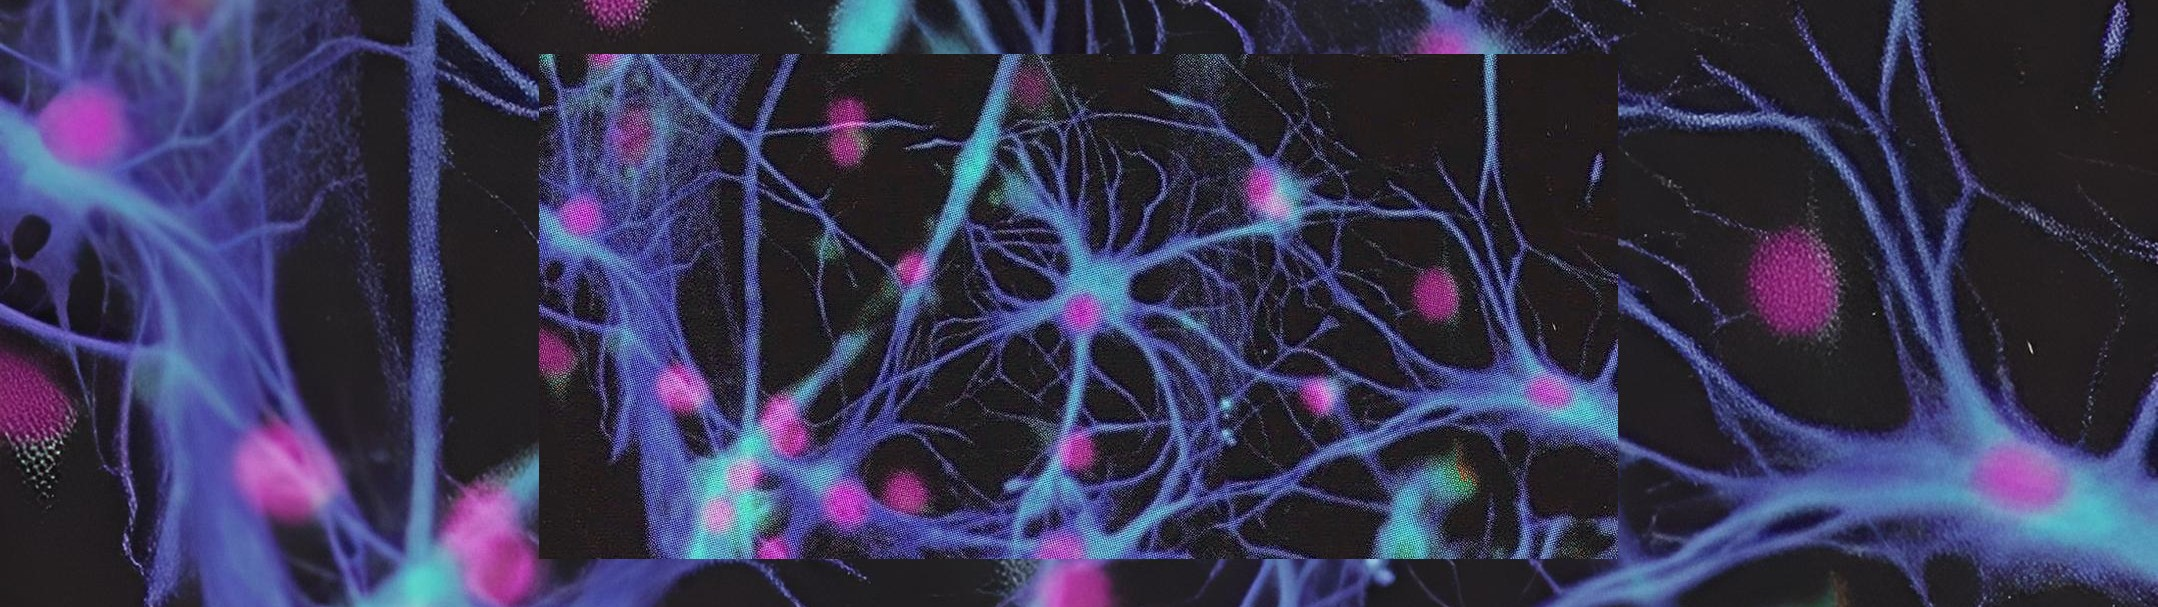
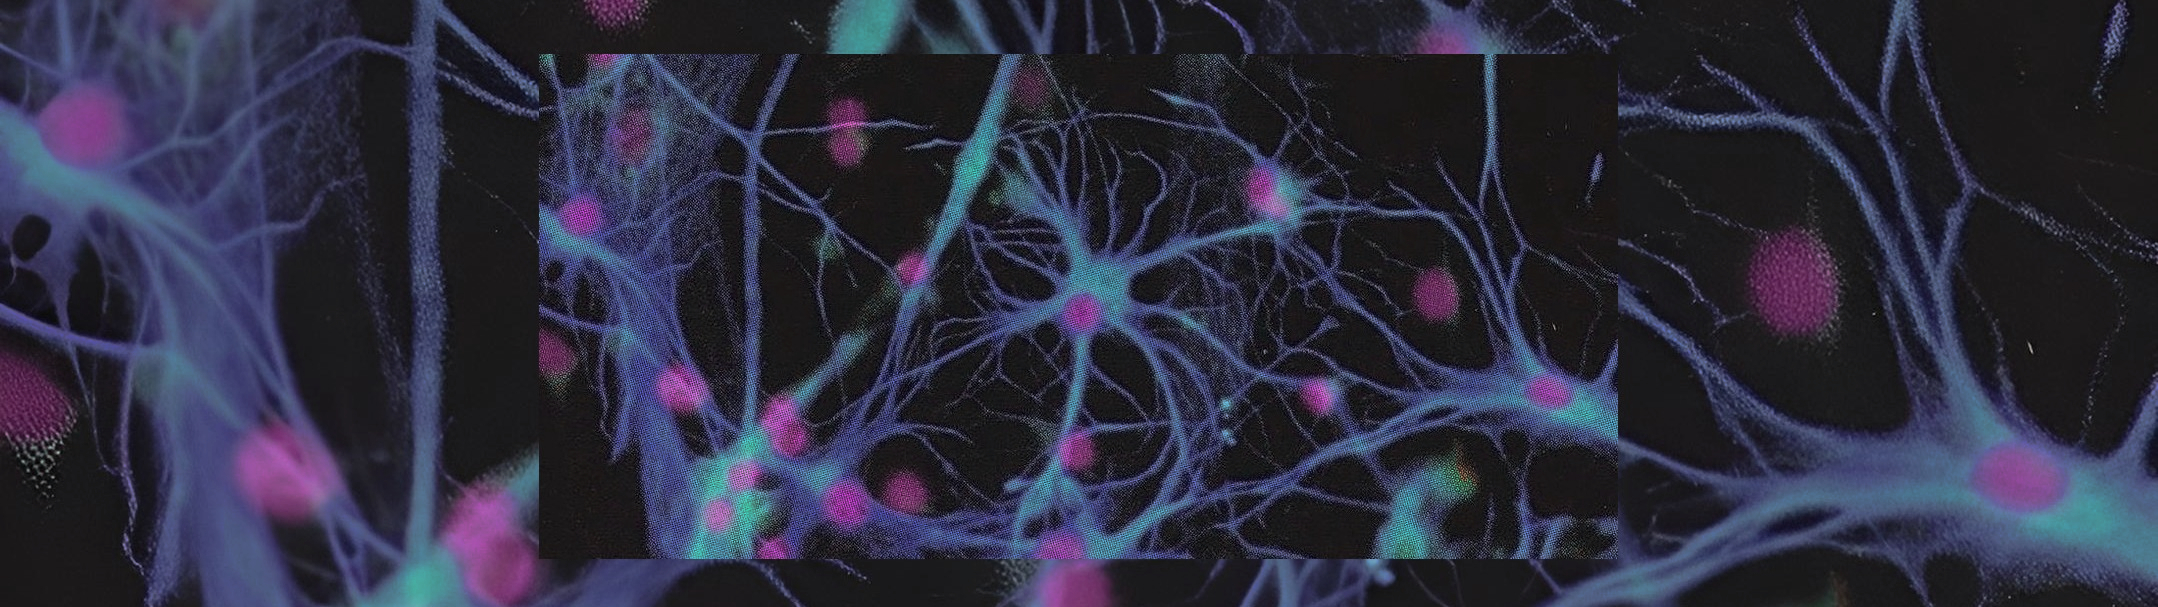
content and bg change

diff --git a/style.css b/style.css
@@ -396,7 +396,7 @@ p, h1, h2, h3, .content {
 .leftbg img {
   position: absolute; 
   bottom: 0;
-  left: 0;
+  left: 3px;
   width: 94.7%;
   object-fit: cover;
   mix-blend-mode: multiply;

diff --git a/content/visuals/darkroom/darkroom.md b/content/visuals/darkroom/darkroom.md
@@ -1,9 +1,24 @@
 wip: true
 banner: assets/edge.jpg
 
-This is meant to serve as a hub for my attempts at pursuing photography. Photography really does something unique for me. I place a lot of focus on the function of art as either asethetic and technical or purely for concept exploration, both of which are quite technical, grounded, and quantifiable. I don't enjoy the emotional aspect or the meaning aspect too much. Photograph is different in this manner though, since I possess such little control on the conditions and only on the framing, there is little to no ability to ideate on concept and the only way you can really do that is through storytelling through framing. This along with some other factors has made me focus more on the emotional aspect of art and try to become more intuitive. You won't see any of this reflected in the photos below, however, since this is just a recent discovery. For the following, I was still trying to stick with the principles I had learned from other art fields, losing that emotion and storytelling.
+This is meant to serve as a hub for my attempts at pursuing photography. 
 
-The following are a bunch of photos I've taken. I'm yet to organize them. **Remember, you can left-click to enlarge any image.**
+- Photography really does something unique for me; I place a lot of focus on the function of art as either asethetic and technical or purely for concept exploration, both of which are quite technical, grounded, and quantifiable. 
+    - I don't enjoy the emotional aspect or the meaning aspect too much. 
+- Photography is different in this manner, though. Since I possess such little control on the conditions and only on the framing, there is little to no ability to ideate on concept. 
+- All that remains is storytelling through framing. This, along with some other factors, has made me focus more on the emotional and intuitive aspect of art. 
+- However, you won't see any of this reflected in the photos below since all of this was a recent discovery.
+    - For the following, I was still trying to stick with the principles I had learned from other art fields, at the cost of emotion and storytelling. 
+
+**Remember, you can left-click to enlarge any image.**
+
+## Hike w/ Friends
+
+<div class="grid">
+
+images{assets/photos/mttam}
+
+</div>
 
 ## Senior Trip
 
